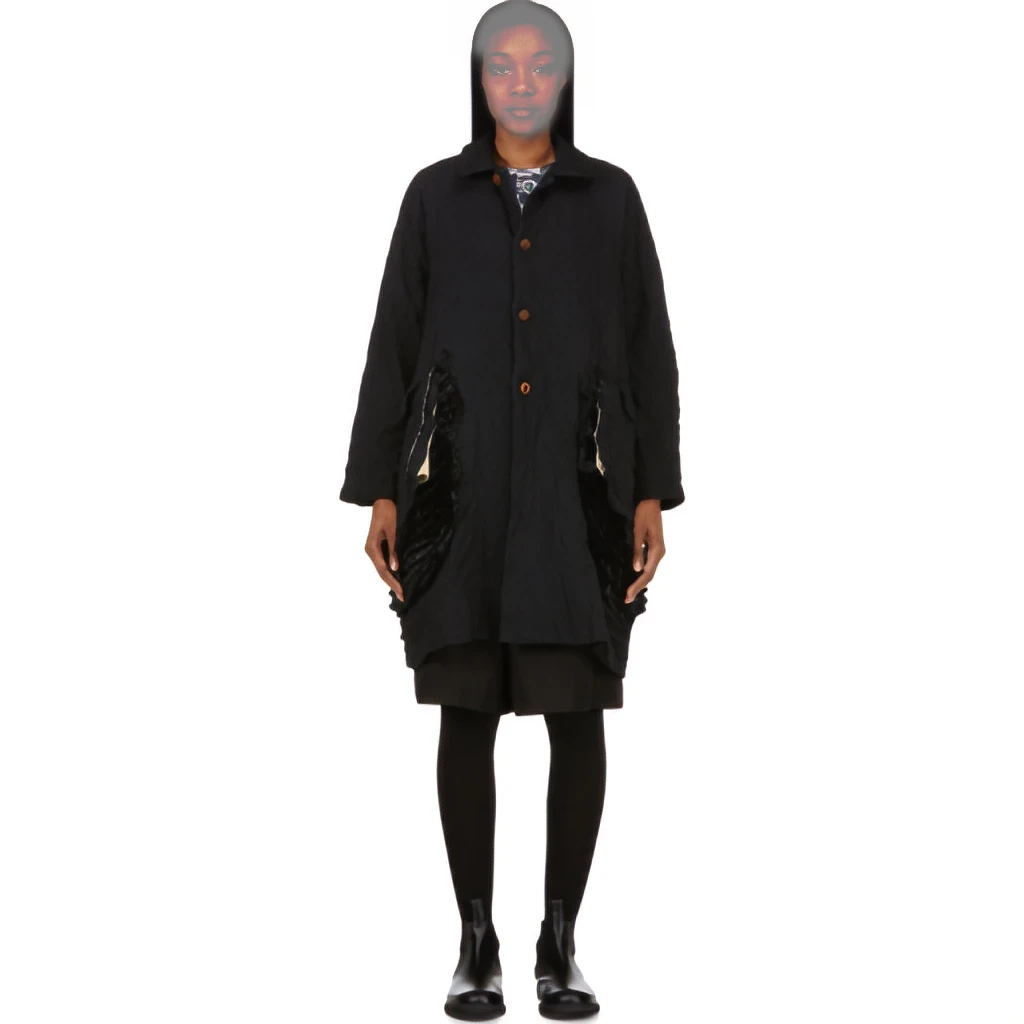
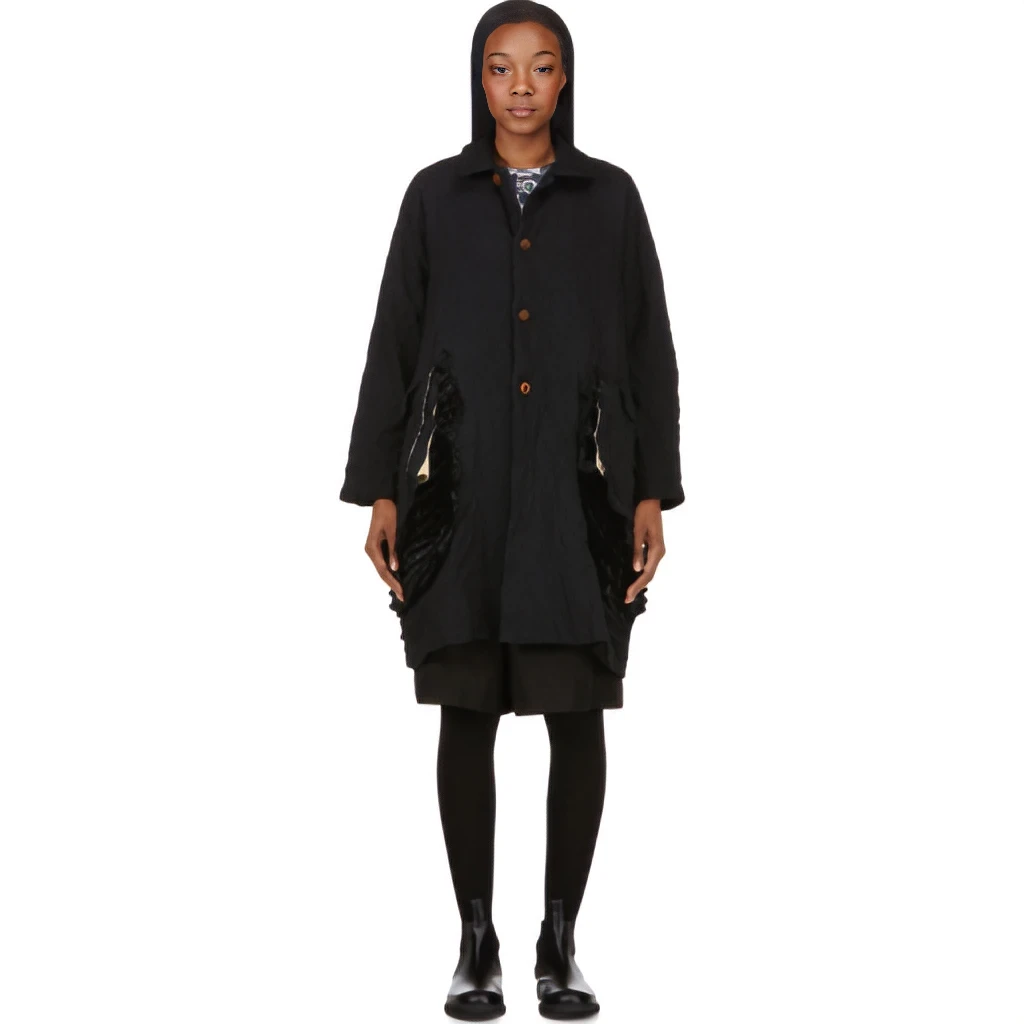
fix(image_processing): eliminate white halo artifact around faces in DAT-2 + GFPGAN hybrid

Changed region(s): [[0.4375, 0.0, 0.5625, 0.1562]]

diff --git a/image_processing/outputs/master_comparison_all_methods.html b/image_processing/outputs/master_comparison_all_methods.html
@@ -1037,7 +1037,7 @@
                 <div class="thumb-media ">
                     
                 <img src="dat2_gfpgan/01_jacket_86605.webp" alt="DAT-2 + GFPGAN 👔✨" loading="lazy">
-                <span class="media-badge">WEBP 46.5 KB</span>
+                <span class="media-badge">WEBP 50.4 KB</span>
                 <div class="zoom-hint">🔍 Kliknij powiększenie 1024px</div>
             
                 </div>
@@ -1242,7 +1242,7 @@
                 <div class="thumb-media ">
                     
                 <img src="dat2_gfpgan/02_knit_sweater_86933.webp" alt="DAT-2 + GFPGAN 👔✨" loading="lazy">
-                <span class="media-badge">WEBP 33.1 KB</span>
+                <span class="media-badge">WEBP 36.0 KB</span>
                 <div class="zoom-hint">🔍 Kliknij powiększenie 1024px</div>
             
                 </div>
@@ -1447,7 +1447,7 @@
                 <div class="thumb-media ">
                     
                 <img src="dat2_gfpgan/03_tshirt_87389.webp" alt="DAT-2 + GFPGAN 👔✨" loading="lazy">
-                <span class="media-badge">WEBP 69.4 KB</span>
+                <span class="media-badge">WEBP 72.6 KB</span>
                 <div class="zoom-hint">🔍 Kliknij powiększenie 1024px</div>
             
                 </div>
@@ -1652,7 +1652,7 @@
                 <div class="thumb-media ">
                     
                 <img src="dat2_gfpgan/04_dress_86877.webp" alt="DAT-2 + GFPGAN 👔✨" loading="lazy">
-                <span class="media-badge">WEBP 21.1 KB</span>
+                <span class="media-badge">WEBP 22.1 KB</span>
                 <div class="zoom-hint">🔍 Kliknij powiększenie 1024px</div>
             
                 </div>
@@ -1857,7 +1857,7 @@
                 <div class="thumb-media ">
                     
                 <img src="dat2_gfpgan/05_shirt_86779.webp" alt="DAT-2 + GFPGAN 👔✨" loading="lazy">
-                <span class="media-badge">WEBP 89.0 KB</span>
+                <span class="media-badge">WEBP 91.1 KB</span>
                 <div class="zoom-hint">🔍 Kliknij powiększenie 1024px</div>
             
                 </div>
@@ -2267,7 +2267,7 @@
                 <div class="thumb-media ">
                     
                 <img src="dat2_gfpgan/07_coat_99750.webp" alt="DAT-2 + GFPGAN 👔✨" loading="lazy">
-                <span class="media-badge">WEBP 20.5 KB</span>
+                <span class="media-badge">WEBP 21.5 KB</span>
                 <div class="zoom-hint">🔍 Kliknij powiększenie 1024px</div>
             
                 </div>
@@ -2472,7 +2472,7 @@
                 <div class="thumb-media ">
                     
                 <img src="dat2_gfpgan/08_hoodie_88112.webp" alt="DAT-2 + GFPGAN 👔✨" loading="lazy">
-                <span class="media-badge">WEBP 24.0 KB</span>
+                <span class="media-badge">WEBP 26.3 KB</span>
                 <div class="zoom-hint">🔍 Kliknij powiększenie 1024px</div>
             
                 </div>
@@ -2677,7 +2677,7 @@
                 <div class="thumb-media ">
                     
                 <img src="dat2_gfpgan/09_sweatshirt_91440.webp" alt="DAT-2 + GFPGAN 👔✨" loading="lazy">
-                <span class="media-badge">WEBP 39.2 KB</span>
+                <span class="media-badge">WEBP 41.2 KB</span>
                 <div class="zoom-hint">🔍 Kliknij powiększenie 1024px</div>
             
                 </div>
@@ -2882,7 +2882,7 @@
                 <div class="thumb-media ">
                     
                 <img src="dat2_gfpgan/10_bomber_87053.webp" alt="DAT-2 + GFPGAN 👔✨" loading="lazy">
-                <span class="media-badge">WEBP 25.9 KB</span>
+                <span class="media-badge">WEBP 27.9 KB</span>
                 <div class="zoom-hint">🔍 Kliknij powiększenie 1024px</div>
             
                 </div>
@@ -3497,7 +3497,7 @@
                 <div class="thumb-media ">
                     
                 <img src="dat2_gfpgan/13_cardigan_90103.webp" alt="DAT-2 + GFPGAN 👔✨" loading="lazy">
-                <span class="media-badge">WEBP 35.2 KB</span>
+                <span class="media-badge">WEBP 38.8 KB</span>
                 <div class="zoom-hint">🔍 Kliknij powiększenie 1024px</div>
             
                 </div>
@@ -3702,7 +3702,7 @@
                 <div class="thumb-media ">
                     
                 <img src="dat2_gfpgan/14_blouse_87937.webp" alt="DAT-2 + GFPGAN 👔✨" loading="lazy">
-                <span class="media-badge">WEBP 22.1 KB</span>
+                <span class="media-badge">WEBP 24.6 KB</span>
                 <div class="zoom-hint">🔍 Kliknij powiększenie 1024px</div>
             
                 </div>
@@ -3907,7 +3907,7 @@
                 <div class="thumb-media ">
                     
                 <img src="dat2_gfpgan/15_polo_87953.webp" alt="DAT-2 + GFPGAN 👔✨" loading="lazy">
-                <span class="media-badge">WEBP 25.9 KB</span>
+                <span class="media-badge">WEBP 28.3 KB</span>
                 <div class="zoom-hint">🔍 Kliknij powiększenie 1024px</div>
             
                 </div>

diff --git a/image_processing/run_dat2_gfpgan.py b/image_processing/run_dat2_gfpgan.py
@@ -5,6 +5,8 @@ Combines:
   1. DAT-2 Vision Transformer: 100% garment texture fidelity (no fabric hallucinations)
   2. GFPGAN v1.4 Generative Face Restoration: Crisp, photorealistic model faces, eyes, and skin.
 Outputs 1024x1024 WebP images into image_processing/outputs/dat2_gfpgan/
+
+Includes seamless face parsing & feathering (NO white halos or discoloration).
 """
 
 import sys
@@ -15,6 +17,7 @@ import numpy as np
 import torch
 import torchvision.transforms.functional as TF
 from facexlib.utils.face_restoration_helper import FaceRestoreHelper
+from torchvision.transforms.functional import normalize
 import spandrel
 
 BASE_DIR = Path(__file__).resolve().parent
@@ -23,9 +26,14 @@ OUTPUT_DIR = BASE_DIR / "outputs" / "dat2_gfpgan"
 OUTPUT_DIR.mkdir(parents=True, exist_ok=True)
 MODEL_PATH = BASE_DIR / "models" / "GFPGANv1.4.pth"
 
+# Face parser colormap: keep skin & facial features (1), exclude background/hair/clothes (0)
+# Classes: 0=bg, 1=skin, 2=l_brow, 3=r_brow, 4=l_eye, 5=r_eye, 6=eye_g, 7=l_ear, 8=r_ear,
+# 9=ear_r, 10=nose, 11=mouth, 12=u_lip, 13=l_lip, 14=neck, 15=neck_l, 16=cloth, 17=hair, 18=hat
+MASK_COLORMAP = [0, 255, 255, 255, 255, 255, 255, 255, 255, 255, 255, 255, 255, 255, 0, 255, 0, 0, 0]
+
 def main():
     device = "mps" if torch.backends.mps.is_available() else "cpu"
-    print("=== Hybrid DAT-2 + GFPGAN Face Restoration Pipeline ===")
+    print("=== Hybrid DAT-2 + GFPGAN Face Restoration Pipeline (Halo-Free) ===")
     print(f"Target device: {device}")
     print(f"Loading GFPGAN model from {MODEL_PATH}...")
 
@@ -64,20 +72,43 @@ def main():
         num_faces = len(face_helper.all_landmarks_5)
         if num_faces > 0:
             face_helper.align_warp_face()
-            for cropped_face in face_helper.cropped_faces:
+            face_helper.get_inverse_affine(None)
+            h_up, w_up = img.shape[:2]
+            final_img = img.copy()
+
+            for cropped_face, inv_affine in zip(face_helper.cropped_faces, face_helper.inverse_affine_matrices):
                 face_rgb = cv2.cvtColor(cropped_face, cv2.COLOR_BGR2RGB)
-                tensor = TF.to_tensor(face_rgb).unsqueeze(0).to(device)
-                tensor = (tensor - 0.5) / 0.5
+                tensor = TF.to_tensor(face_rgb).unsqueeze(0).to(device) # input range [0, 1]
                 with torch.inference_mode():
-                    output = model(tensor)
-                    output = (output.clamp(-1, 1) + 1) / 2
+                    output = model(tensor) # spandrel output is in range [0, 1]
+                    output = output.clamp(0, 1)
                 restored_np = (output[0].permute(1, 2, 0).cpu().numpy() * 255).astype(np.uint8)
                 restored_bgr = cv2.cvtColor(restored_np, cv2.COLOR_RGB2BGR)
-                face_helper.add_restored_face(restored_bgr)
 
-            face_helper.get_inverse_affine(None)
-            final_img = face_helper.paste_faces_to_input_image()
-            status_msg = f"Restored {num_faces} face(s)"
+                # Segment face parsing map to isolate skin and facial features cleanly
+                face_input = cv2.resize(restored_bgr, (512, 512), interpolation=cv2.INTER_LINEAR)
+                face_tensor = TF.to_tensor(cv2.cvtColor(face_input, cv2.COLOR_BGR2RGB)).to(device)
+                normalize(face_tensor, (0.5, 0.5, 0.5), (0.5, 0.5, 0.5), inplace=True)
+                with torch.no_grad():
+                    parse_out = face_helper.face_parse(face_tensor.unsqueeze(0))[0]
+                parse_out = parse_out.argmax(dim=1).squeeze().cpu().numpy()
+
+                mask = np.zeros(parse_out.shape, dtype=np.float32)
+                for c_idx, color in enumerate(MASK_COLORMAP):
+                    if color == 255:
+                        mask[parse_out == c_idx] = 1.0
+
+                # Slightly erode (5x5) and apply soft Gaussian blur (19x19, sigma=4)
+                # This guarantees zero bleeding into hair, clothes, or background (NO halos)
+                mask = cv2.erode(mask, np.ones((5, 5), np.uint8))
+                mask = cv2.GaussianBlur(mask, (19, 19), 4)
+
+                inv_restored = cv2.warpAffine(restored_bgr, inv_affine, (w_up, h_up))
+                inv_soft_mask = cv2.warpAffine(mask, inv_affine, (w_up, h_up), flags=cv2.INTER_LINEAR)[:, :, None]
+
+                final_img = (inv_soft_mask * inv_restored + (1.0 - inv_soft_mask) * final_img).astype(np.uint8)
+
+            status_msg = f"Restored {num_faces} face(s) seamlessly"
         else:
             final_img = img
             status_msg = "No faces detected (retained pristine DAT-2 garment)"
